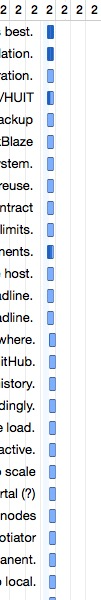
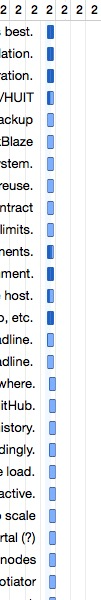
Updating gh-pages on Fri Jul 29 16:12:20 EDT 2016

diff --git a/resource.html b/resource.html
@@ -58,8 +58,8 @@
                 <td style="padding-left: 10px;">Evan</td>
                 <td>7/29/16, 4:30 PM</td>
                 <td>10/18/16, 4:30 PM</td>
-                <td>25w 1d 1.75h</td>
-                <td>17%</td>
+                <td>27w 1d 1.75h</td>
+                <td>29%</td>
                 <td></td>
             </tr>
             
@@ -68,7 +68,7 @@
                 <td>7/29/16, 4:30 PM</td>
                 <td>8/3/16, 4:30 PM</td>
                 <td>3d</td>
-                <td>0%</td>
+                <td>41%</td>
                 <td></td>
             </tr>
             
@@ -78,6 +78,15 @@
                 <td>8/2/16, 4:30 PM</td>
                 <td>2d</td>
                 <td>69%</td>
+                <td></td>
+            </tr>
+            
+            <tr>
+                <td style="padding-left: 18px;" class="wrap taskTypeTask">Determine the best method for file storage on Heroku — using an S3 bucket, connecting to our local NetApp, etc.</td> 
+                <td>7/29/16, 4:30 PM</td>
+                <td>8/5/16, 4:30 PM</td>
+                <td>1w</td>
+                <td>100%</td>
                 <td></td>
             </tr>
             
@@ -95,7 +104,7 @@
                 <td>7/29/16, 4:45 PM</td>
                 <td>8/5/16, 4:45 PM</td>
                 <td>1w</td>
-                <td>0%</td>
+                <td>100%</td>
                 <td></td>
             </tr>
             
@@ -104,7 +113,7 @@
                 <td>7/29/16, 4:45 PM</td>
                 <td>8/1/16, 4:45 PM</td>
                 <td>1d</td>
-                <td>0%</td>
+                <td>12%</td>
                 <td></td>
             </tr>
             
@@ -132,6 +141,15 @@
                 <td>8/5/16, 4:45 PM</td>
                 <td>1w</td>
                 <td>0%</td>
+                <td></td>
+            </tr>
+            
+            <tr>
+                <td style="padding-left: 18px;" class="wrap taskTypeTask">If successful, work with Latanya to migrate one of her websites entirely to Heroku to test the viability of this environment.</td> 
+                <td>7/29/16, 4:45 PM</td>
+                <td>8/5/16, 4:45 PM</td>
+                <td>1w</td>
+                <td>100%</td>
                 <td></td>
             </tr>
             
@@ -194,7 +212,7 @@
                 <td>9/16/16, 4:30 PM</td>
                 <td>10/4/16, 4:30 PM</td>
                 <td>2w 2d</td>
-                <td>0%</td>
+                <td>10%</td>
                 <td></td>
             </tr>
             
@@ -320,25 +338,7 @@
                 <td style="padding-left: 10px;">Brad</td>
                 <td>7/29/16, 4:30 PM</td>
                 <td>9/30/16, 4:30 PM</td>
-                <td>6w 3d</td>
-                <td>0%</td>
-                <td></td>
-            </tr>
-            
-            <tr>
-                <td style="padding-left: 18px;" class="wrap taskTypeTask">Determine the best method to migrate our users permissions to Heroku: How much CPU time should they get? How much memory should they get? Should they be allowed to provision as many websites as they want, etc.</td> 
-                <td>7/29/16, 4:30 PM</td>
-                <td>8/5/16, 4:30 PM</td>
-                <td>1w</td>
-                <td>0%</td>
-                <td></td>
-            </tr>
-            
-            <tr>
-                <td style="padding-left: 18px;" class="wrap taskTypeTask">Determine the best method for file storage on Heroku — using an S3 bucket, connecting to our local NetApp, etc.</td> 
-                <td>7/29/16, 4:30 PM</td>
-                <td>8/5/16, 4:30 PM</td>
-                <td>1w</td>
+                <td>4w 3d</td>
                 <td>0%</td>
                 <td></td>
             </tr>
@@ -353,9 +353,9 @@
             </tr>
             
             <tr>
-                <td style="padding-left: 18px;" class="wrap taskTypeTask">If successful, work with Latanya to migrate one of her websites entirely to Heroku to test the viability of this environment.</td> 
-                <td>7/29/16, 4:45 PM</td>
-                <td>8/5/16, 4:45 PM</td>
+                <td style="padding-left: 18px;" class="wrap taskTypeTask">Determine the best method to migrate our users permissions to Heroku: How much CPU time should they get? How much memory should they get? Should they be allowed to provision as many websites as they want, etc.</td> 
+                <td>7/29/16, 4:30 PM</td>
+                <td>8/5/16, 4:30 PM</td>
                 <td>1w</td>
                 <td>0%</td>
                 <td></td>
@@ -513,6 +513,6 @@
         </div>
     </div><!-- end contentwrap -->
 
-    <p class="exported">Exported 6/21/16</p>
+    <p class="exported">Exported 7/29/16</p>
 </body>
 </html>

diff --git a/task.html b/task.html
@@ -67,7 +67,7 @@
                 <td>4/25/16, 8:15 AM</td>
                 <td>11/1/16, 4:30 PM</td>
                 <td>27w 1d 7.25h</td>
-                <td>11%</td>
+                <td>18%</td>
                 <td></td>
                 <td class="total"></td>
                 <td></td>
@@ -84,7 +84,7 @@
                 <td>4/25/16, 8:15 AM</td>
                 <td>8/19/16, 4:45 PM</td>
                 <td>16w 4d 7.5h</td>
-                <td>27%</td>
+                <td>48%</td>
                 <td></td>
                 <td class="total"></td>
                 <td></td>
@@ -169,7 +169,7 @@
                 <td>7/29/16, 4:45 PM</td>
                 <td>8/19/16, 4:45 PM</td>
                 <td>3w</td>
-                <td>70%</td>
+                <td>95%</td>
                 <td></td>
                 <td class="total"></td>
                 <td></td>
@@ -220,7 +220,7 @@
                 <td>7/29/16, 4:45 PM</td>
                 <td>8/5/16, 4:45 PM</td>
                 <td>1w</td>
-                <td>0%</td>
+                <td>100%</td>
                 <td></td>
                 <td class="total"></td>
                 <td>Evan</td>
@@ -373,7 +373,7 @@
                 <td>5/4/16, 8:00 AM</td>
                 <td>8/5/16, 4:45 PM</td>
                 <td>13w 2d 7.75h</td>
-                <td>6%</td>
+                <td>36%</td>
                 <td></td>
                 <td class="total"></td>
                 <td></td>
@@ -475,7 +475,7 @@
                 <td>7/29/16, 4:45 PM</td>
                 <td>8/5/16, 4:45 PM</td>
                 <td>1w</td>
-                <td>0%</td>
+                <td>100%</td>
                 <td></td>
                 <td class="total"></td>
                 <td></td>
@@ -492,10 +492,10 @@
                 <td>7/29/16, 4:45 PM</td>
                 <td>8/5/16, 4:45 PM</td>
                 <td>1w</td>
-                <td>0%</td>
+                <td>100%</td>
                 <td></td>
                 <td class="total"></td>
-                <td>Brad</td>
+                <td>Evan</td>
                 <td></td>
                 <td></td>
                 <td>7/29/16, 4:45 PM</td>
@@ -509,7 +509,7 @@
                 <td>7/29/16, 4:30 PM</td>
                 <td>8/3/16, 4:30 PM</td>
                 <td>3d</td>
-                <td>0%</td>
+                <td>41%</td>
                 <td></td>
                 <td class="total"></td>
                 <td>Evan</td>
@@ -543,10 +543,10 @@
                 <td>7/29/16, 4:30 PM</td>
                 <td>8/5/16, 4:30 PM</td>
                 <td>1w</td>
-                <td>0%</td>
+                <td>100%</td>
                 <td></td>
                 <td class="total"></td>
-                <td>Brad</td>
+                <td>Evan</td>
                 <td></td>
                 <td></td>
                 <td>7/29/16, 4:30 PM</td>
@@ -577,7 +577,7 @@
                 <td>7/29/16, 4:45 PM</td>
                 <td>8/1/16, 4:45 PM</td>
                 <td>1d</td>
-                <td>0%</td>
+                <td>12%</td>
                 <td></td>
                 <td class="total"></td>
                 <td>Evan</td>
@@ -713,7 +713,7 @@
                 <td>9/16/16, 4:30 PM</td>
                 <td>10/4/16, 4:30 PM</td>
                 <td>2w 2d</td>
-                <td>2%</td>
+                <td>5%</td>
                 <td>2</td>
                 <td class="total"></td>
                 <td></td>
@@ -798,7 +798,7 @@
                 <td>9/16/16, 4:30 PM</td>
                 <td>10/4/16, 4:30 PM</td>
                 <td>2w 2d</td>
-                <td>0%</td>
+                <td>10%</td>
                 <td></td>
                 <td class="total"></td>
                 <td>Evan</td>
@@ -1290,6 +1290,6 @@
         </div><!-- end table wrap -->
 	</div>
     </div><!-- end contentwrap -->
-	 <p class="exported">Exported 6/21/16</p>
+	 <p class="exported">Exported 7/29/16</p>
 </body>
 </html>

diff --git a/gantt.html b/gantt.html
@@ -30,25 +30,25 @@
 	<h1>RCECloud: Gantt Chart</h1>
 		<div class="tablewrap"><table border="0" cellspacing="0" cellpadding="0">
 <tr>
-	<td><img src="include/gantt0,0.jpg?nocacheTag=-2023415058" border=0/></td>
-	<td><img src="include/gantt1,0.jpg?nocacheTag=-610996306" border=0/></td>
+	<td><img src="include/gantt0,0.jpg?nocacheTag=674403467" border=0/></td>
+	<td><img src="include/gantt1,0.jpg?nocacheTag=1459425205" border=0/></td>
 </tr>
 <tr>
-	<td><img src="include/gantt0,1.jpg?nocacheTag=-561278470" border=0/></td>
-	<td><img src="include/gantt1,1.jpg?nocacheTag=1114372762" border=0/></td>
+	<td><img src="include/gantt0,1.jpg?nocacheTag=-543279510" border=0/></td>
+	<td><img src="include/gantt1,1.jpg?nocacheTag=-515305558" border=0/></td>
 </tr>
 <tr>
-	<td><img src="include/gantt0,2.jpg?nocacheTag=466993454" border=0/></td>
-	<td><img src="include/gantt1,2.jpg?nocacheTag=-249155212" border=0/></td>
+	<td><img src="include/gantt0,2.jpg?nocacheTag=-1881600801" border=0/></td>
+	<td><img src="include/gantt1,2.jpg?nocacheTag=17598391" border=0/></td>
 </tr>
 <tr>
-	<td><img src="include/gantt0,3.jpg?nocacheTag=-1762367768" border=0/></td>
-	<td><img src="include/gantt1,3.jpg?nocacheTag=1508815211" border=0/></td>
+	<td><img src="include/gantt0,3.jpg?nocacheTag=-453872758" border=0/></td>
+	<td><img src="include/gantt1,3.jpg?nocacheTag=1292400731" border=0/></td>
 </tr>
 </table>
 </div>
 		</div>
 	</div><!-- end contentwrap -->
-	 <p class="exported">Exported 6/21/16</p>
+	 <p class="exported">Exported 7/29/16</p>
 
 </body>	

diff --git a/index.html b/index.html
@@ -32,8 +32,8 @@
 			<p class="number"><span class="data-missing">None</span></p>
 		</div>
 		<div id="completed" class="box">
-			<h2><span class="number">11%</span> Completed</h2>
-			<div id="bar"><div id="fill" style="width:11%;"></div></div>
+			<h2><span class="number">18%</span> Completed</h2>
+			<div id="bar"><div id="fill" style="width:18%;"></div></div>
 			<p><span class="label">Start:</span> 4/23/16, 12:00 AM</p>
 			<p><span class="label">End Date:</span> 11/1/16, 4:30 PM</p>
 			<p><span class="label">Variance:</span> <span class="data-missing">None</span></p>
@@ -59,8 +59,8 @@
                 <td style="padding-left: 10px;">Evan</td>
                 <td>7/29/16, 4:30 PM</td>
                 <td>10/18/16, 4:30 PM</td>
-                <td>25w 1d 1.75h</td>
-                <td>17%</td>
+                <td>27w 1d 1.75h</td>
+                <td>29%</td>
                 <td></td>
             </tr>
             
@@ -68,7 +68,7 @@
                 <td style="padding-left: 10px;">Brad</td>
                 <td>7/29/16, 4:30 PM</td>
                 <td>9/30/16, 4:30 PM</td>
-                <td>6w 3d</td>
+                <td>4w 3d</td>
                 <td>0%</td>
                 <td></td>
             </tr>
@@ -139,6 +139,6 @@
        
             </div><!-- end content-->
 	</div><!-- end contentwrap -->
-	 <p class="exported">Exported 6/21/16</p>
+	 <p class="exported">Exported 7/29/16</p>
 
 </body>	

diff --git a/timeline.html b/timeline.html
@@ -32,15 +32,22 @@
 <tr>
 	<td><img src="include/timeline0,0.jpg" border=0/></td>
 	<td><img src="include/timeline1,0.jpg" border=0/></td>
+	<td><img src="include/timeline2,0.jpg" border=0/></td>
 <br clear=all />
 <tr>
 	<td><img src="include/timeline0,1.jpg" border=0/></td>
 	<td><img src="include/timeline1,1.jpg" border=0/></td>
+	<td><img src="include/timeline2,1.jpg" border=0/></td>
+<br clear=all />
+<tr>
+	<td><img src="include/timeline0,2.jpg" border=0/></td>
+	<td><img src="include/timeline1,2.jpg" border=0/></td>
+	<td><img src="include/timeline2,2.jpg" border=0/></td>
 <br clear=all />
 </table>
 </div>
 		</div>
 	</div><!-- end contentwrap -->
-	 <p class="exported">Exported 6/21/16</p>
+	 <p class="exported">Exported 7/29/16</p>
 
 </body>	

diff --git a/eva.html b/eva.html
@@ -1291,6 +1291,6 @@
         </div><!-- end table wrap -->
 	</div>
     </div><!-- end contentwrap -->
-	 <p class="exported">Exported 6/21/16</p>
+	 <p class="exported">Exported 7/29/16</p>
 </body>
 </html>

diff --git a/montecarlo.html b/montecarlo.html
@@ -59,6 +59,6 @@
 
 			</div>
 	</div><!-- end contentwrap -->
-	 <p class="exported">Exported 6/21/16</p>
+	 <p class="exported">Exported 7/29/16</p>
 
 </body>	
